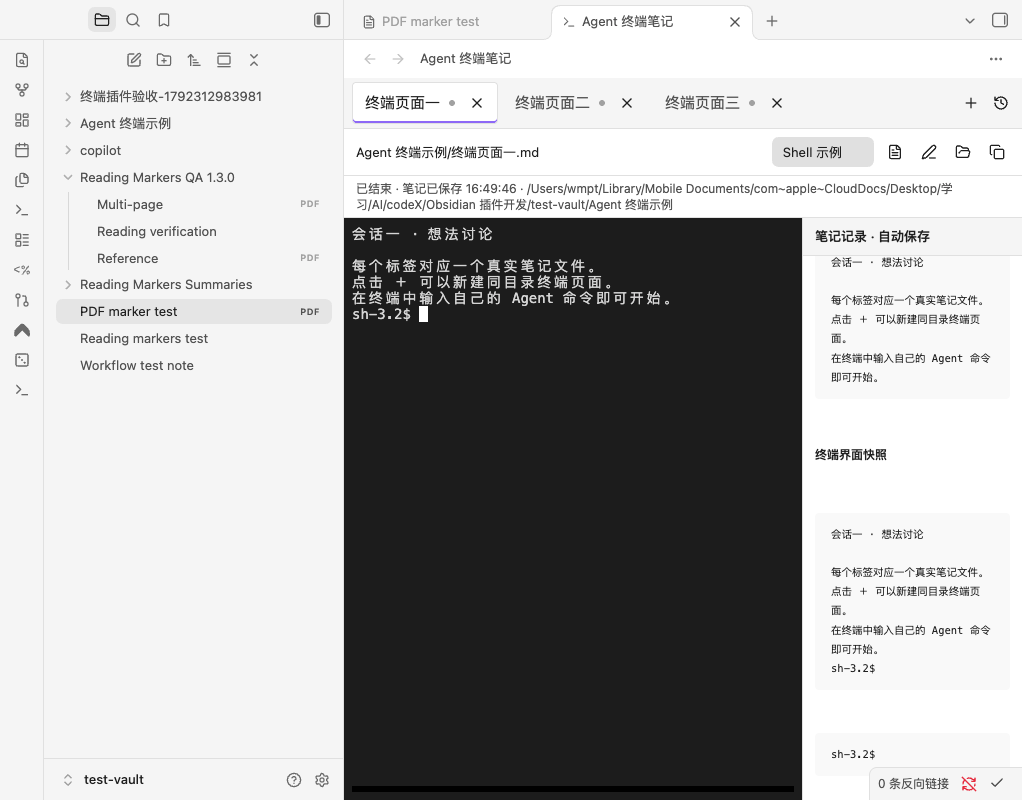
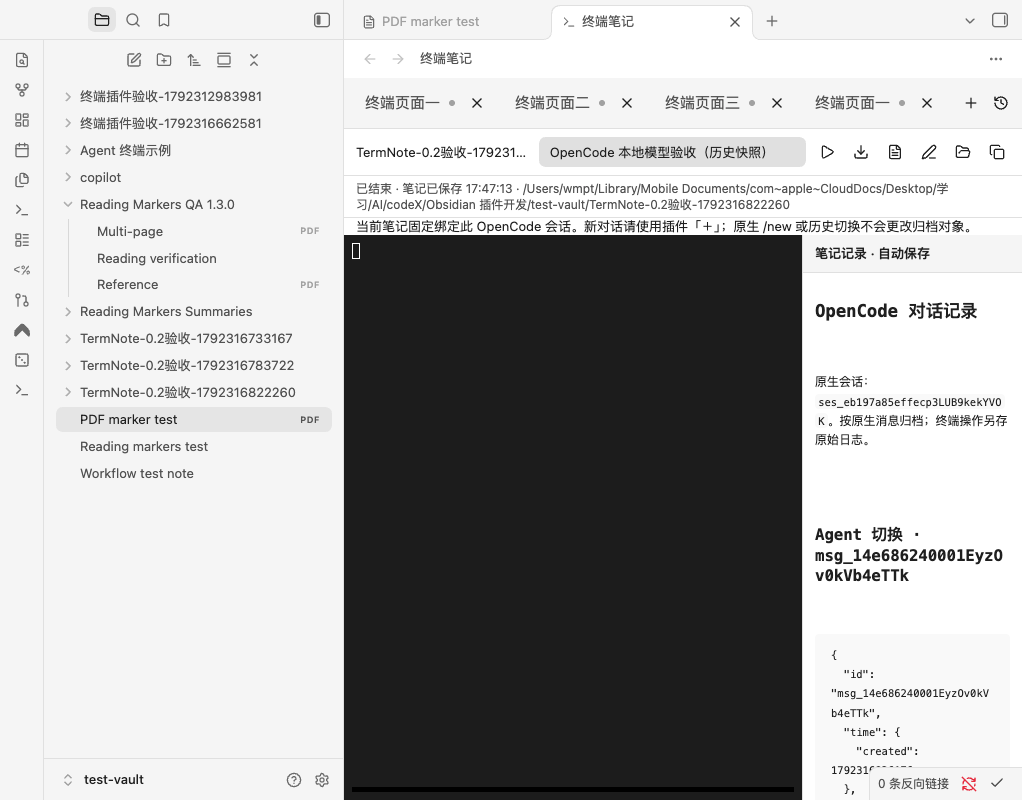
Improve readable conversation notes and native version acceptance

diff --git a/src/native.ts b/src/native.ts
@@ -52,15 +52,20 @@ export class NativeArchive {
   }
   render():string {
     if(!this.snapshot)return '';
-    const lines=['## OpenCode 对话记录','',`原生会话：\`${this.snapshot.binding.sessionID}\`。按原生消息归档；终端操作另存原始日志。`,''];
+    const lines=['## OpenCode 对话记录','',`> [!info]- 原生会话信息\n> 会话 ID：\`${this.snapshot.binding.sessionID}\`\n> 按原生消息归档；终端操作另存原始日志。`,''];
     if(!this.snapshot.messages.length)lines.push('尚无原生消息。','');
     for(const message of this.snapshot.messages) {
       const info=message.info??message,type=info.role??info.type??'unknown',id=messageID(message);
       const labels:Record<string,string>={user:'用户输入',assistant:'Agent 回答',shell:'命令执行','model-switched':'模型切换','agent-switched':'Agent 切换',system:'系统消息',compaction:'上下文整理'};
-      lines.push(`### ${labels[type]??'原生事件'} · ${id}`,'');
+      lines.push(`<!-- opencode-message: ${id} -->`,'');
+      if(!['user','assistant','shell'].includes(type)) {
+        lines.push(`> [!info]- ${labels[type]??'OpenCode 状态事件'}`,fence(JSON.stringify(message,null,2)).split('\n').map(line=>'> '+line).join('\n'),'');continue;
+      }
+      lines.push(`### ${labels[type]}`,'');
       const model=info.model??(info.modelID?{providerID:info.providerID,id:info.modelID}:undefined);
       if(model)lines.push('模型：'+JSON.stringify(model).replace(/\n/g,' '),'');
       if(typeof message.text==='string')lines.push(fence(message.text),'');
+      for(const key of ['files','agents','skills'])if(Array.isArray(message[key])&&message[key].length)lines.push('**关联内容**',fence(JSON.stringify({[key]:message[key]},null,2)),'');
       const parts=message.parts??message.content;
       if(Array.isArray(parts))for(const p of parts) {
         if(p.type==='text'||p.type==='reasoning')lines.push(p.type==='reasoning'?'**推理内容（Agent 已公开输出）**\n':'',fence(String(p.text??'')),'');

diff --git a/tests/test_bridge.py b/tests/test_bridge.py
@@ -156,7 +156,10 @@ class BridgeTests(unittest.TestCase):
 
     def test_utf8_split_across_reads_and_clean_exit(self):
         with tempfile.TemporaryDirectory() as d:
-            c = Client(d, 'import os,time;data="中文😀".encode();[(os.write(1,bytes([b])),time.sleep(.01)) for b in data]')
+            code = ('import sys,time;[(sys.stdout.write(c),sys.stdout.flush(),time.sleep(.02)) for c in "中文😀"]'
+                    if os.name == 'nt' else
+                    'import os,time;data="中文😀".encode();[(os.write(1,bytes([b])),time.sleep(.01)) for b in data]')
+            c = Client(d, code)
             try:
                 c.until(lambda es: any(e['type'] == 'exit' for e in es))
                 if os.name == 'nt':
